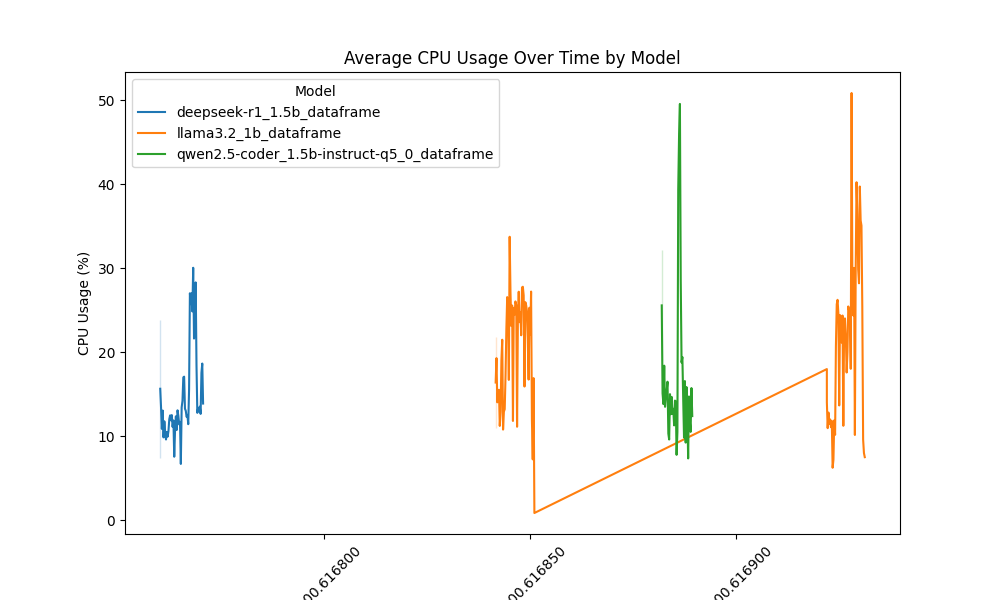
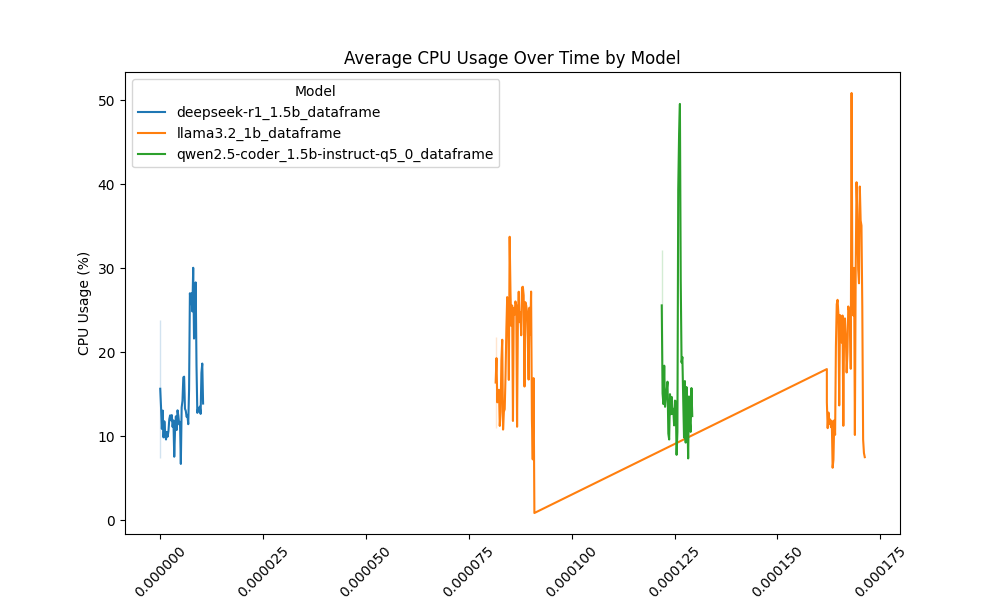
Horizontal axis now uses ms instead

diff --git a/visuals.py b/visuals.py
@@ -23,8 +23,8 @@ for file in parquet_files:
 
 df = pd.concat(all_data, ignore_index=True)
 
-# Convert Time column to datetime if needed
-df['Time'] = pd.to_datetime(df['Time'], unit='ns')
+# Calculate time since start in seconds
+df['Time'] = (df['Time'] - df['Time'].min() * 1e3) / 1e9
 
 # Calculate additional metrics
 df['CPU_USAGE_MEAN'] = df[[col for col in df.columns if 'CPU_USAGE' in col]].mean(axis=1)
@@ -32,13 +32,13 @@ df['CPU_FREQUENCY_MEAN'] = df[[col for col in df.columns if 'CPU_FREQUENCY' in c
 df['GPU_MEMORY_UTILIZATION'] = (df['GPU0_MEMORY_USED'] / df['GPU0_MEMORY_TOTAL']) * 100
 
 # Calculate Energy Delay Product (EDP)
-df['EDP'] = df['PACKAGE_ENERGY (J)'] * df['Time'].diff().dt.total_seconds().fillna(0)
+df['EDP'] = df['PACKAGE_ENERGY (J)'] * df['Time'].diff().fillna(0)
 
 # Visualizing CPU usage over time per model
 plt.figure(figsize=(10, 6))
 sns.lineplot(x='Time', y='CPU_USAGE_MEAN', hue='model', data=df)
 plt.title('Average CPU Usage Over Time by Model')
-plt.xlabel('Time')
+plt.xlabel('Time (ms)')
 plt.ylabel('CPU Usage (%)')
 plt.xticks(rotation=45)
 plt.legend(title='Model')
@@ -50,7 +50,7 @@ plt.figure(figsize=(10, 6))
 sns.lineplot(x='Time', y='DRAM_ENERGY (J)', hue='model', data=df, legend='full')
 sns.lineplot(x='Time', y='PACKAGE_ENERGY (J)', hue='model', data=df, legend='full')
 plt.title('Energy Consumption Over Time by Model')
-plt.xlabel('Time')
+plt.xlabel('Time (ms)')
 plt.ylabel('Energy (J)')
 plt.legend(title='Model')
 plt.xticks(rotation=45)
@@ -61,7 +61,7 @@ plt.close()
 plt.figure(figsize=(10, 6))
 sns.lineplot(x='Time', y='EDP', hue='model', data=df)
 plt.title('Energy Delay Product Over Time by Model')
-plt.xlabel('Time')
+plt.xlabel('Time (ms)')
 plt.ylabel('EDP (J·s)')
 plt.xticks(rotation=45)
 plt.legend(title='Model')
